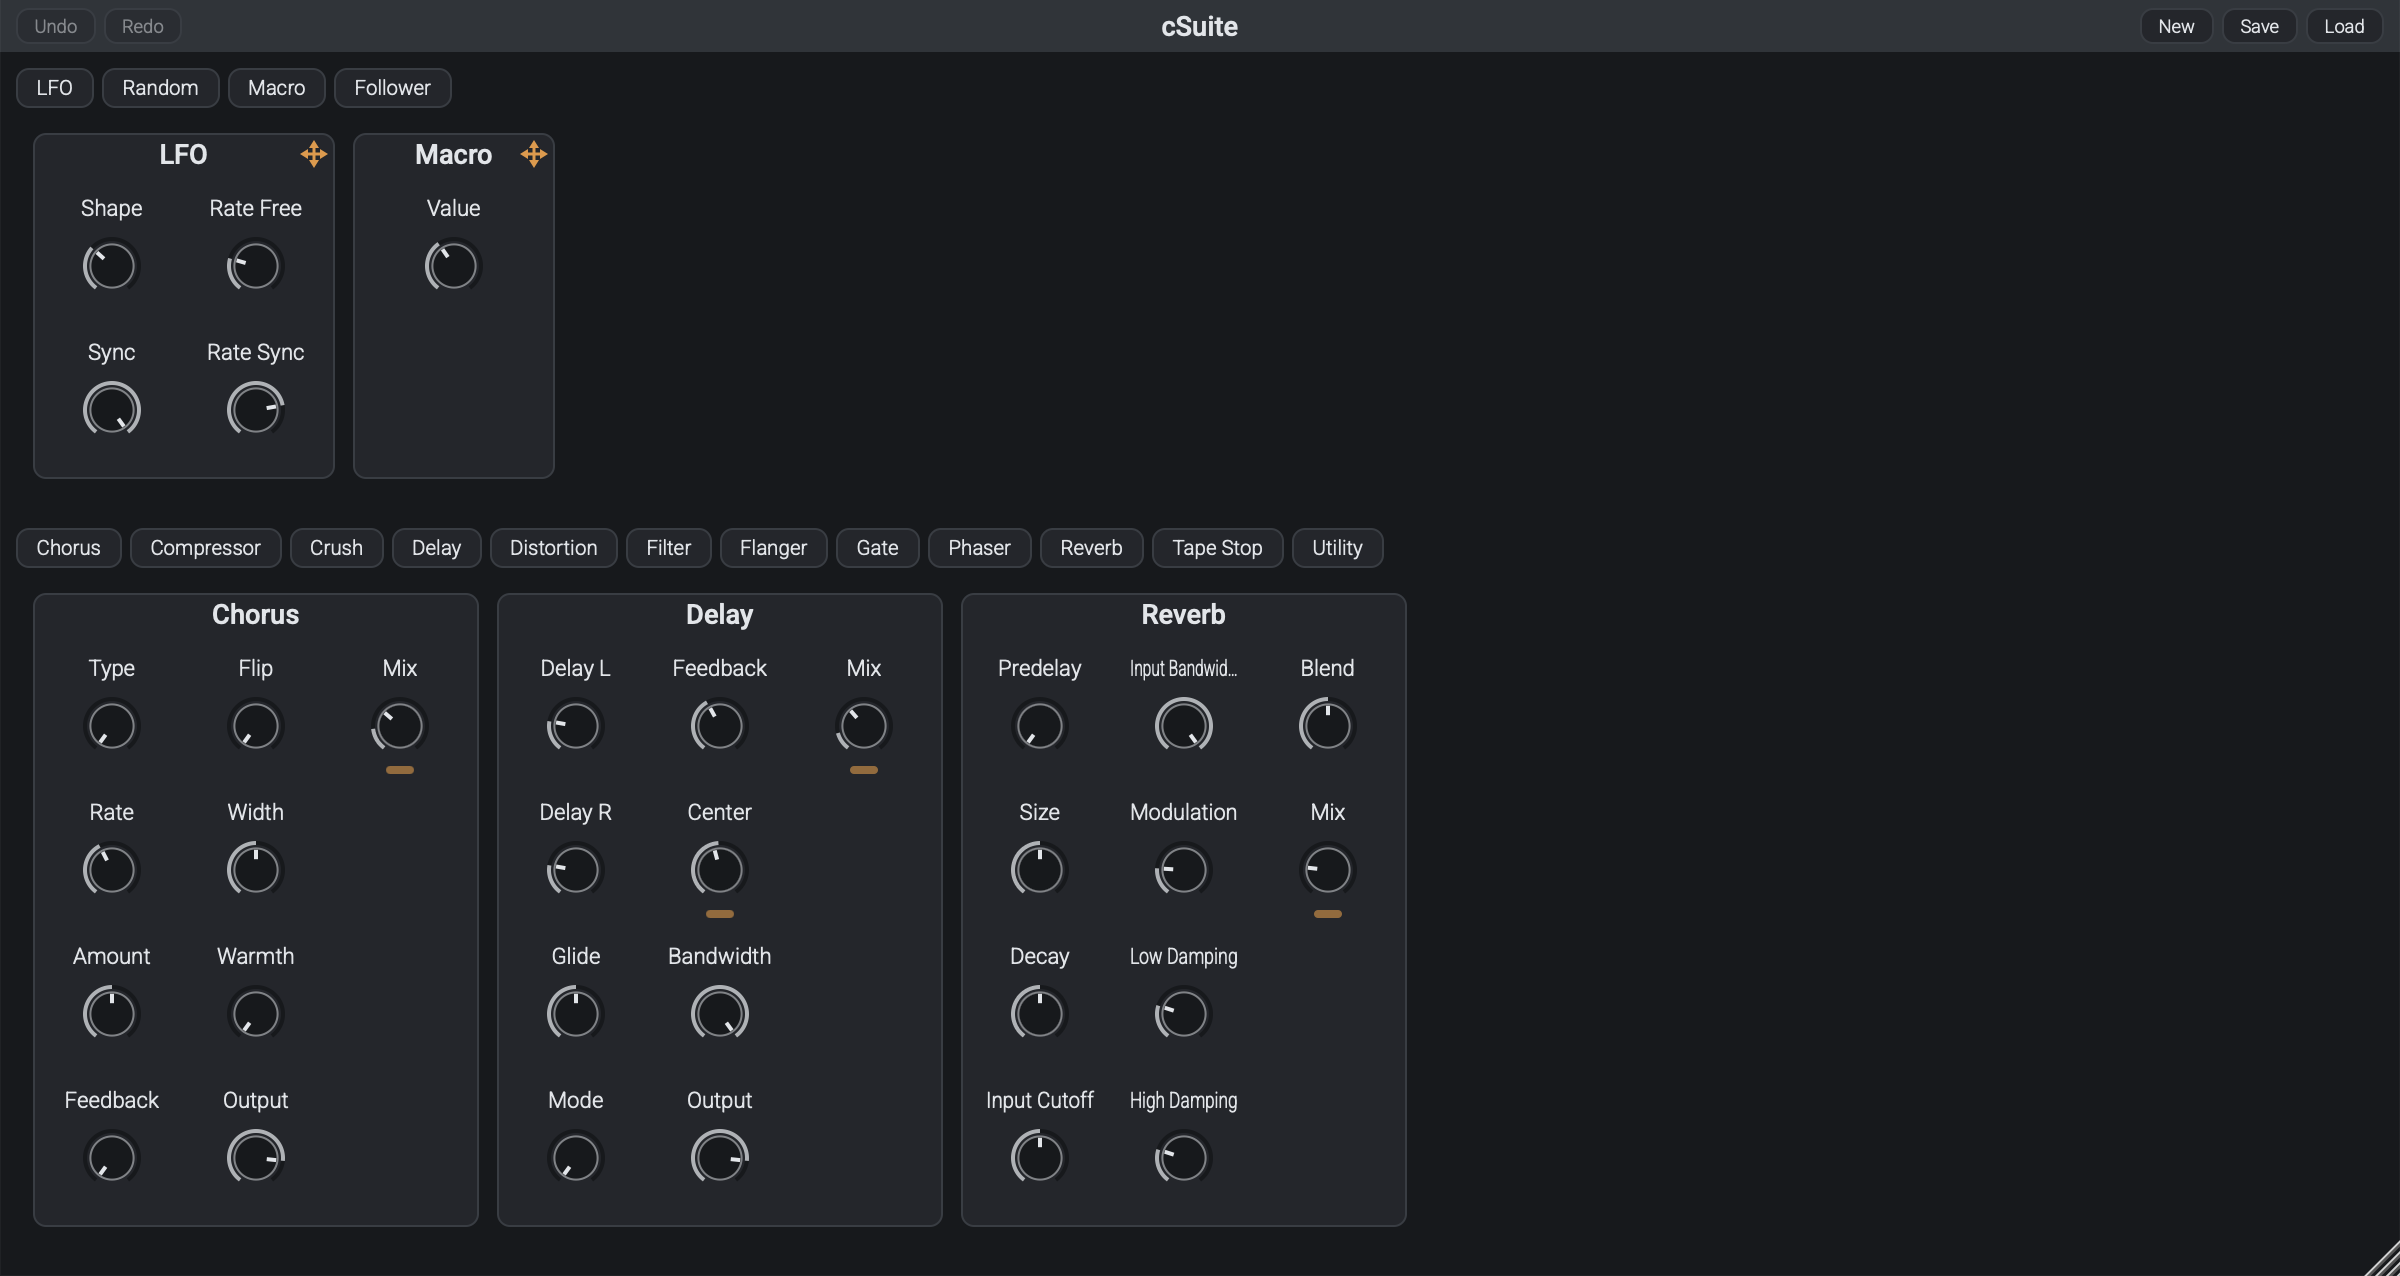
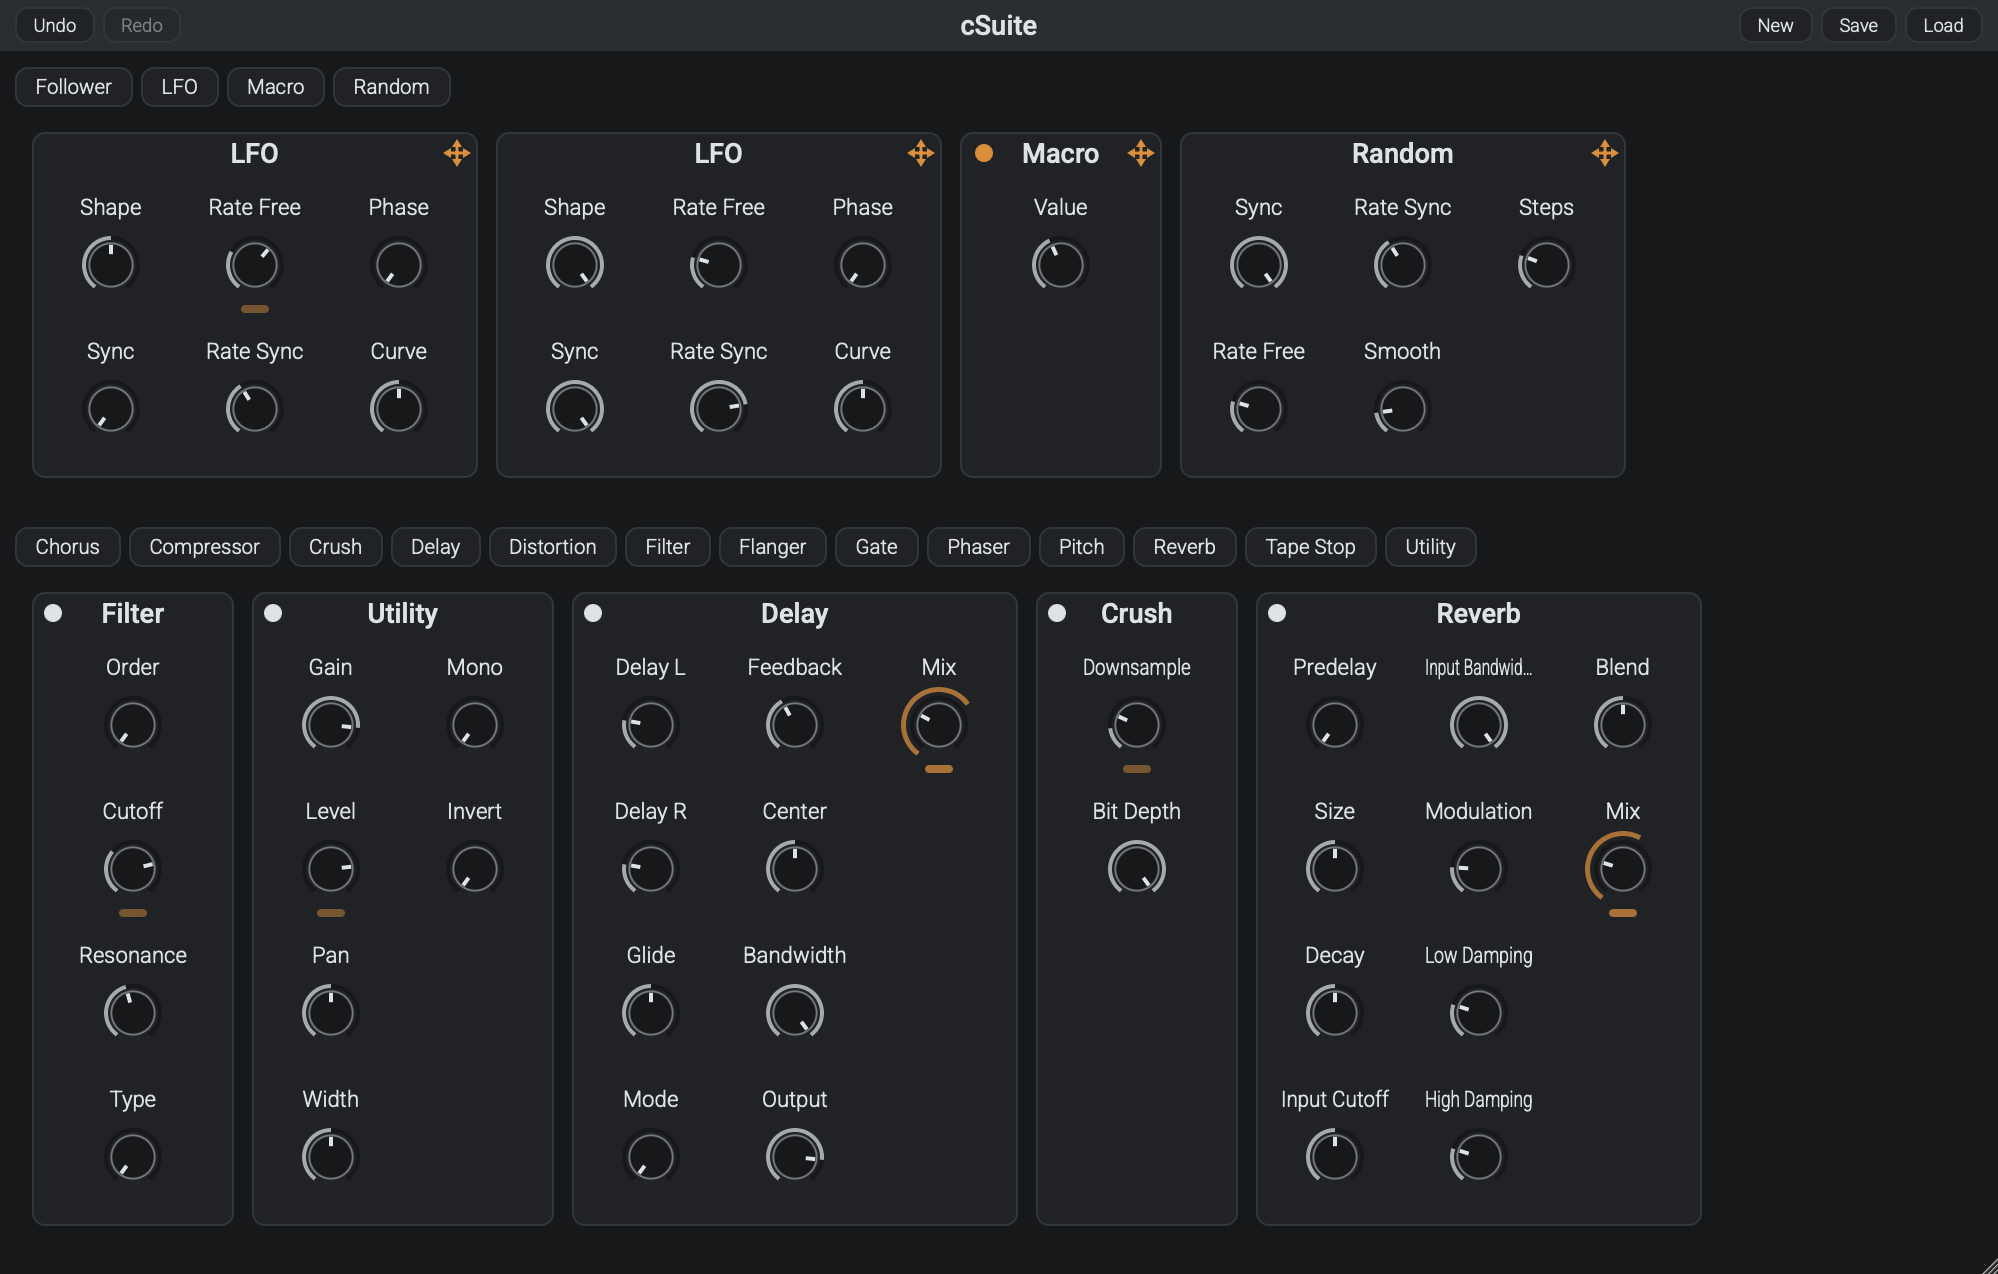
Update README

diff --git a/README.md b/README.md
@@ -4,14 +4,13 @@
 
 ## Overview
 
-cSuite is an effect rack audio plugin available in VST3, AU, and CLAP formats for Mac and Windows, built using C++ and JUCE.
-
-It is currently in alpha and is subject to significant changes before the release, including changes that break saved presets and projects.
+cSuite is a semi-modular effect rack audio plugin available in VST3, AU, and CLAP formats for Mac, Windows, and Linux.
 
 ### Features
 
 - Add as many effects and modulators as you need
 - Drag-and-drop audio rate modulation
+- Modulate an existing modulation's depth parameter
 - Save and load presets
 - Undo and redo support
 - Resizable interface
@@ -27,16 +26,17 @@ It is currently in alpha and is subject to significant changes before the releas
 - Flanger
 - Gate
 - Phaser
+- Pitch
 - Reverb
 - Tape Stop
 - Utility
 
 ### Modulators
 
-- LFO
-- Random
-- Macro
 - Envelope Follower
+- LFO
+- Macro
+- Random
 
 ## Build Instructions
 
